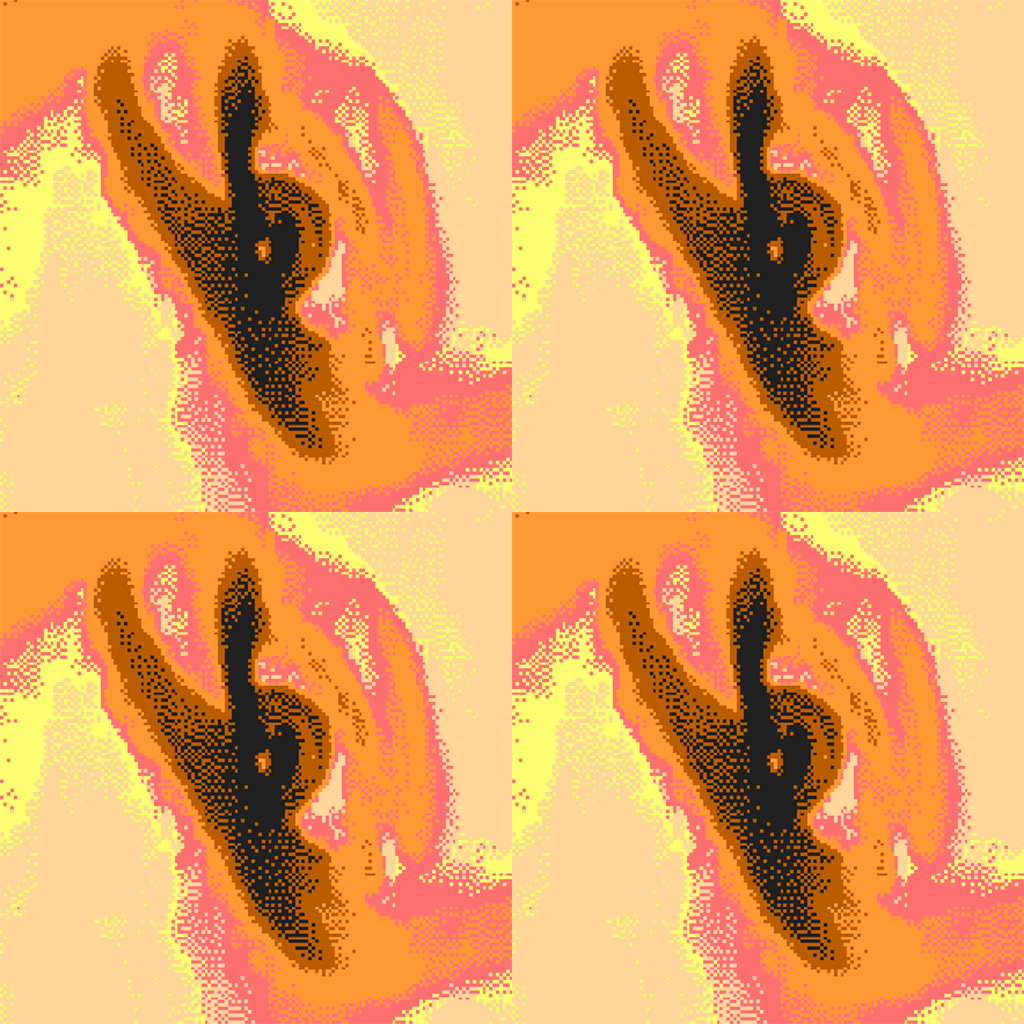
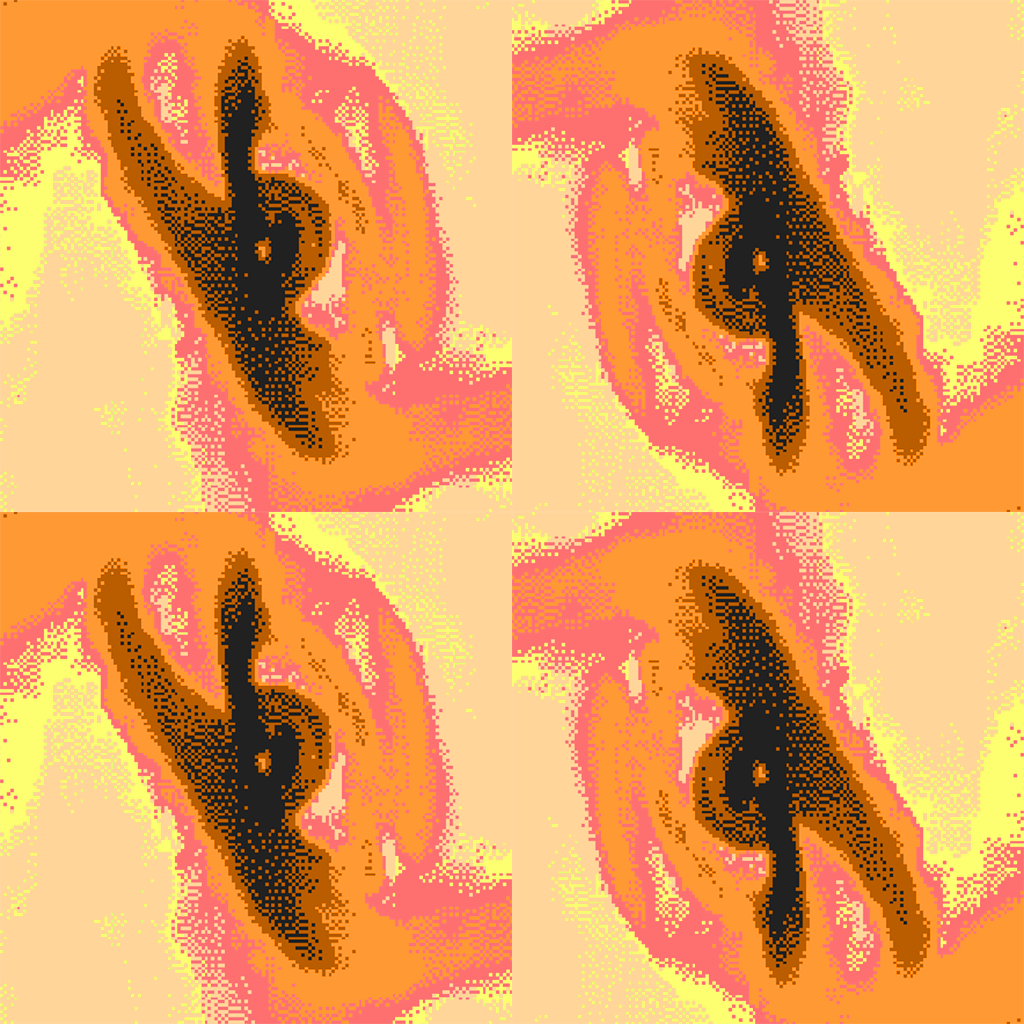
cdefinition camera encircling

diff --git a/src/CDefinition.cpp b/src/CDefinition.cpp
@@ -22,8 +22,6 @@ CDefinition::CDefinition(CCamera * camera, TControlState * state, CSkybox * skyb
 }
 
 CDefinition::~CDefinition(void) {
-	m_skybox->rotate(M_PI, glm::vec3(0.0f, 1.0f, 0.0f)); // just turn it back
-
 	for (int i = 0; i < DEF_HONEYCOMBS_N_PER_LINE * DEF_HONEYCOMBS_LINES_N; i++) delete m_honeycombs[i];
 	delete[] m_honeycombs;
 
@@ -47,13 +45,15 @@ void CDefinition::redraw(const glm::mat4 & PMatrix, const glm::mat4 & VMatrix) {
 	}
 
 	// skybox
-	m_skybox->draw(PMatrix, VMatrix);
+	if (m_innerMap[DEF_BACKGROUND]) m_skybox->draw(PMatrix, VMatrix);
 
 	glEnable(GL_BLEND);
 	glBlendFunc(GL_SRC_ALPHA, GL_ONE_MINUS_SRC_ALPHA);
 	
 	// honeycombs
-	for (int i = 0; i < DEF_HONEYCOMBS_N_PER_LINE * DEF_HONEYCOMBS_LINES_N; i++) m_honeycombs[i]->draw(PMatrix, VMatrix);
+	if (m_innerMap[DEF_BACKGROUND])
+		for (int i = 0; i < DEF_HONEYCOMBS_N_PER_LINE * DEF_HONEYCOMBS_LINES_N; i++)
+			m_honeycombs[i]->draw(PMatrix, VMatrix);
 
 	// banners
 	if (m_innerMap[DEF_BANNER0]) m_banners[0]->draw(PMatrix, VMatrix);
@@ -115,6 +115,7 @@ void CDefinition::update(double time) {
 		else m_innerMap[DEF_SWEEP] = false;
 	}
 
+	m_camera->placeOnCircle(CAMERA_ENCIRCLE_SPEED * time, m_r + m_camOffset, glm::vec3(1.0f, 0.0f, 0.0f));
 }
 
 
@@ -148,9 +149,6 @@ void CDefinition::shadersInit(void) {
 }
 
 void CDefinition::modelsInit(void) {
-	// skybox
-	m_skybox->rotate(M_PI, glm::vec3(0.0f, 1.0f, 0.0f));
-
 	// honeycombs
 	m_honeyDataN = 4;
 	m_honeyData = new CLoadedObj * [m_honeyDataN];
@@ -162,7 +160,8 @@ void CDefinition::modelsInit(void) {
 	m_honeycombs = new CLoadedObj * [DEF_HONEYCOMBS_N_PER_LINE * DEF_HONEYCOMBS_LINES_N];
 	float phi = 0.0f;
 	float phiStep = M_PI / (DEF_HONEYCOMBS_N_PER_LINE / 2.0f);
-	float r = DEF_HONEYCOMBS_N_PER_LINE / 4.0f + DEF_HONEYCOMBS_N_PER_LINE / 16.0f;
+	m_r = DEF_HONEYCOMBS_N_PER_LINE / 4.0f + DEF_HONEYCOMBS_N_PER_LINE / 16.0f;
+	m_camOffset = DEF_HONEYCOMBS_LINES_N * 0.9f;
 	float zOffset = -0.0f; // move it closer to the camera
 	float xOffset = 1.7f; // move it left and right
 	float alpha = 0.8f;
@@ -174,7 +173,7 @@ void CDefinition::modelsInit(void) {
 		float phiOffset = (M_PI / DEF_HONEYCOMBS_N_PER_LINE) * phiFactor;
 		
 		m_honeycombs[i] = new CLoadedObj(MODEL_DEF_HONEY,
-										 glm::vec3(actualXOffset, r * glm::sin(phi + phiOffset), r * glm::cos(phi + phiOffset) + zOffset),
+										 glm::vec3(actualXOffset, m_r * glm::sin(phi + phiOffset), m_r * glm::cos(phi + phiOffset) + zOffset),
 										 glm::vec3(1.0f),
 										 &m_shaderPrograms[0],
 										 NULL,
@@ -182,12 +181,10 @@ void CDefinition::modelsInit(void) {
 										 m_honeyData[rand() % m_honeyDataN],
 										 0,
 										 alpha);
-		m_honeycombs[i]->rotate(M_PI * 3.0f / 2.0f - phi - phiOffset, axis);
+		m_honeycombs[i]->rotate(M_PI / 2.0f - phi - phiOffset, axis);
 
 		phi += phiStep;
 	}
-
-	m_camera->m_position = glm::vec3(0.0f, 0.0f, - r - 4.0f);
 
 	// banners
 	m_bannersN = 5;
@@ -260,8 +257,9 @@ void CDefinition::midiIn(const unsigned int status, const unsigned int note, con
 			m_innerMap[DEF_BANNER0] = true;
 			m_banners[0]->m_triggerTime = time;
 			break;
-		//case MIDI_DRUM_KICK2:
-		//	break;
+		case MIDI_DRUM_KICK2:
+			m_innerMap[DEF_BACKGROUND] = true;
+			break;
 		case MIDI_DRUM_SNARE1:
 			m_innerMap[DEF_BANNER1] = true;
 			m_banners[1]->m_triggerTime = time;

diff --git a/src/CCamera.cpp b/src/CCamera.cpp
@@ -45,6 +45,19 @@ void CCamera::flow(const double time, const int dir) {
 	this->move(dir * STEP_LENGTH);
 }
 
+bool CCamera::placeOnCircle(const double time, const float r, const glm::vec3 axis) {
+	if (axis == glm::vec3(1.0f, 0.0f, 0.0f)) m_position = glm::vec3(0.0f, r * glm::sin(time), r * glm::cos(time));
+	else if (axis == glm::vec3(0.0f, 1.0f, 0.0f)) m_position = glm::vec3(r * glm::sin(time), 0.0f, r * glm::cos(time));
+	else if (axis == glm::vec3(0.0f, 0.0f, 1.0f)) m_position = glm::vec3(r * glm::sin(time), r * glm::cos(time), 0.0f);
+	else return false;
+
+	m_direction = glm::normalize(-m_position);
+	m_right = axis;
+	m_up = glm::normalize(glm::cross(m_right, m_direction));
+
+	return true;
+}
+
 void CCamera::reset(void) {
 	m_position = CAMERA_INIT_POS;
 	m_direction = CAMERA_INIT_DIR;

diff --git a/src/CCamera.hpp b/src/CCamera.hpp
@@ -18,7 +18,8 @@ public:
 	void roll(const GLfloat angle);
 	void move(const GLfloat stepLen); ///< Move forwards or backwards, the direction is resolved by the + or - sign.
 	void sideStep(const GLfloat stepLen); ///< Move left or right, the direction is resolved by the + or - sign.
-	void flow(const double time, const int dir);
+	void flow(const double time, const int dir); ///< Movement for a period of time
+	bool placeOnCircle(const double time, const float r, const glm::vec3 axis); /// Accepts only axes x, y and z for the time being
 	
 	void reset(void);
 

diff --git a/src/data.hpp b/src/data.hpp
@@ -33,6 +33,7 @@
 #define CAMERA_DIR_FORWARD 1
 #define CAMERA_DIR_BACKWARD -1
 #define CAMERA_ROTATE_SPEED 0.02f
+#define CAMERA_ENCIRCLE_SPEED 0.3f
 
 #define MOUSE_SENSITIVITY 0.01f
 #define ROTATION_ANGLE_DELTA 0.02f ///< in degrees
@@ -92,7 +93,7 @@
 // <--------------------------------------------------------------- resources
 
 #define DEF_HONEYCOMBS_N_PER_LINE 16
-#define DEF_HONEYCOMBS_LINES_N 5
+#define DEF_HONEYCOMBS_LINES_N 5 // only odd numbers, even ones break the pattern
 
 #define LEGO_BRICKS_LOOPS 8
 #define LEGO_BRICKS_DIST 5

diff --git a/src/CDefinition.hpp b/src/CDefinition.hpp
@@ -31,6 +31,7 @@ protected:
 	enum {
 		DEF_BANNER0, DEF_BANNER1, DEF_BANNER2, DEF_BANNER4, // banner 3 is for multipass
 		DEF_INVERSE, DEF_REDUCE, DEF_SWEEP,
+		DEF_BACKGROUND,
 		DEF_COUNT
 	};
 
@@ -46,6 +47,8 @@ protected:
 
 	unsigned int m_kickCount;
 	double m_sweepTriggerTime;
+	float m_r;
+	float m_camOffset;
 };
 
 #endif // !_REJFPANK_CDEFINITION

diff --git a/README.md b/README.md
@@ -16,6 +16,7 @@ The rest of the readme is mostly for myself.
 - reset skybox color multiplier
 - revise count/n variables and constants
 - make multipass banner standalone object
+- add support for any axes in CCamera::placeOnCircle()
 
 ## Ideas
 - create an algorithm to tessellate a rectangle
